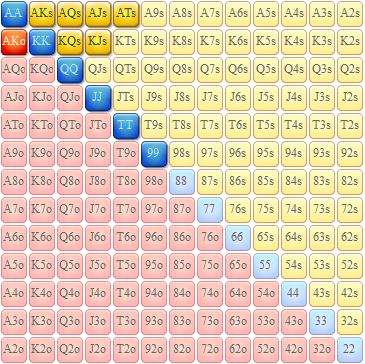
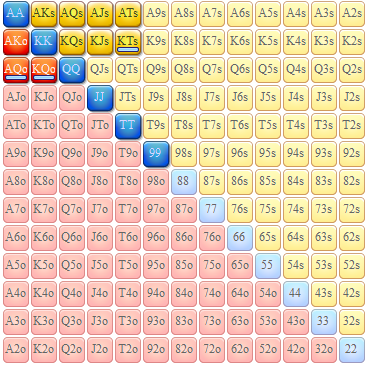
added possible widenings on SB vs isolates

diff --git a/js/structure.js b/js/structure.js
@@ -265,10 +265,10 @@ const struct = {
     ],
     '3bet SB': [
       ['SB vs 10%', '4,1%'],
-      ['SB vs 15%', '5,4%'],
-      ['SB vs 20%', '6,9%'],
+      ['SB vs 15%', '5,4% <br /> Gray: possible widening vs isolate'],
+      ['SB vs 20%', '6,9% <br /> Gray: possible widening vs isolate'],
       ['SB vs 25%', '8,9%'],
-      ['SB vs 30%', '10,1%'],
+      ['SB vs 30%', '10,1% <br /> Gray: possible widening vs isolate'],
       ['SB vs 45%', '14,3%'],
     ],
     'def BB': [
